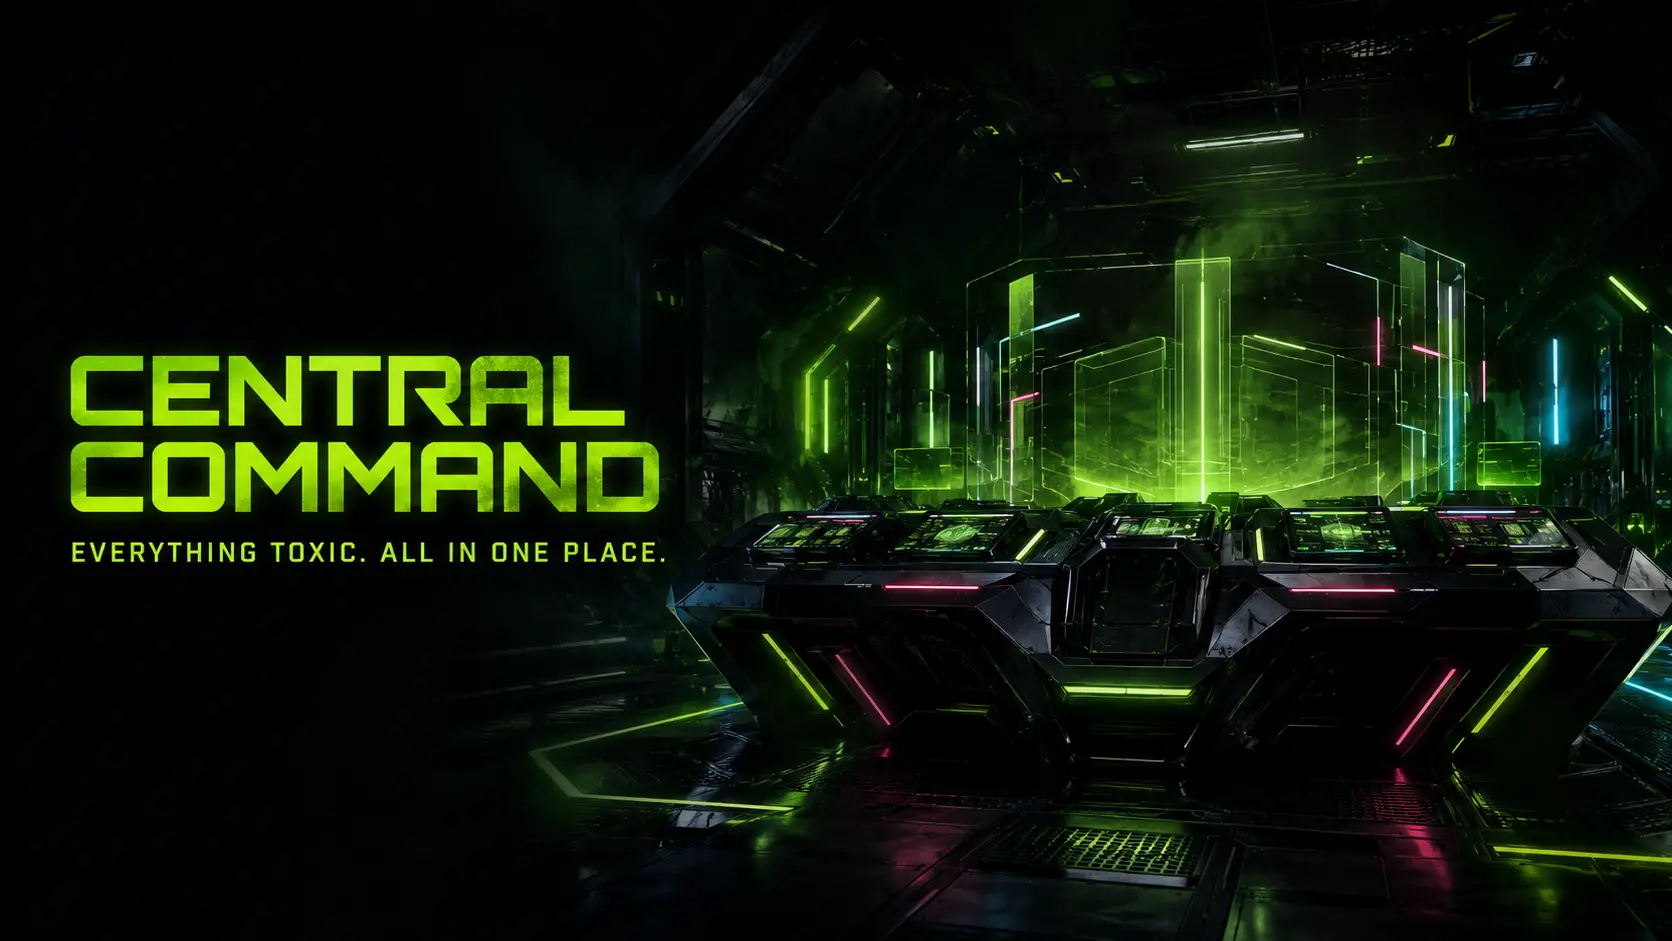
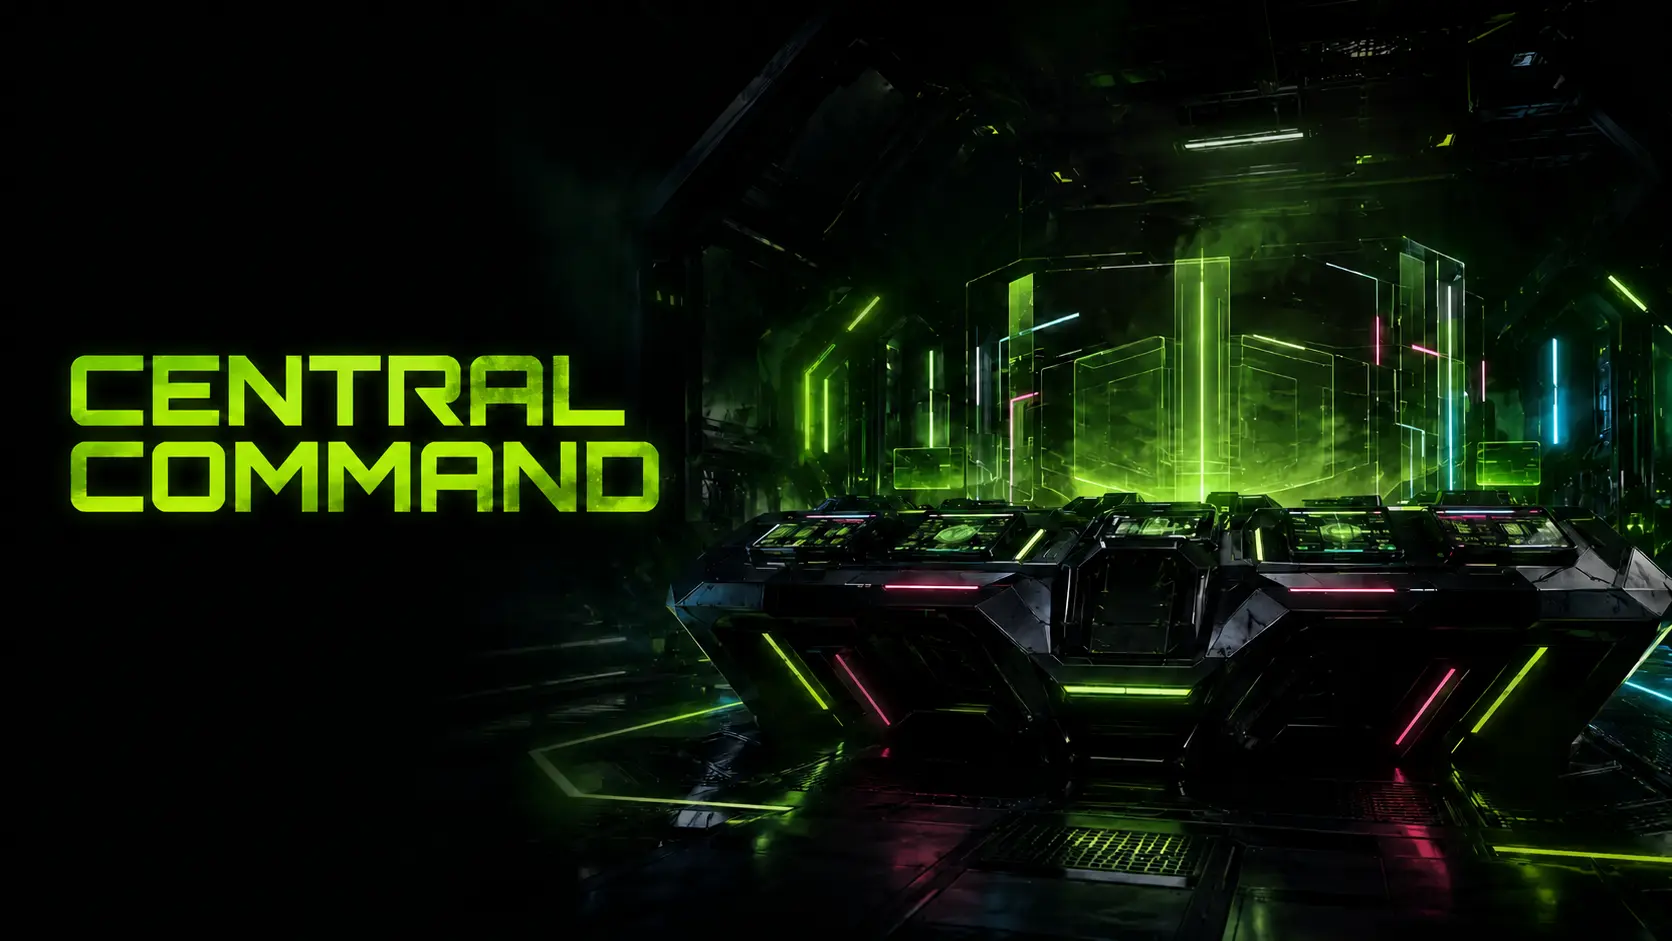
Central Command branding update

diff --git a/index.html b/index.html
@@ -4,17 +4,17 @@
   <meta charset="utf-8">
   <meta name="viewport" content="width=device-width, initial-scale=1">
   <meta name="theme-color" content="#070a08">
-  <meta name="description" content="ThyToxicGamer Central Command brings the Game Catalog, Poll Center, Command Center, Discord, stream links, and future community tools together in one place.">
-  <meta property="og:title" content="ThyToxicGamer Central Command">
-  <meta property="og:description" content="Everything Toxic. All in One Place.">
+  <meta name="description" content="⁅𝐓𝐡𝐲𝐓☣𝐱𝐢𝐜𝐆𝐚𝐦𝐞𝐫⁆ Central Command brings the Game Catalog, Poll Center, Command Center, Discord, stream links, and future community tools together in one place.">
+  <meta property="og:title" content="⁅𝐓𝐡𝐲𝐓☣𝐱𝐢𝐜𝐆𝐚𝐦𝐞𝐫⁆ Central Command">
+  <meta property="og:description" content="Everything 𝐓☣𝐱𝐢c. All in One Place.">
   <meta property="og:type" content="website">
   <meta property="og:url" content="https://thy-toxic-gamer.github.io/central-command/">
   <meta property="og:image" content="https://thy-toxic-gamer.github.io/central-command/assets/central-command-banner.webp">
   <meta name="twitter:card" content="summary_large_image">
-  <meta name="twitter:title" content="ThyToxicGamer Central Command">
-  <meta name="twitter:description" content="Everything Toxic. All in One Place.">
+  <meta name="twitter:title" content="⁅𝐓𝐡𝐲𝐓☣𝐱𝐢𝐜𝐆𝐚𝐦𝐞𝐫⁆ Central Command">
+  <meta name="twitter:description" content="Everything 𝐓☣𝐱𝐢c. All in One Place.">
   <meta name="twitter:image" content="https://thy-toxic-gamer.github.io/central-command/assets/central-command-banner.webp">
-  <title>ThyToxicGamer Central Command</title>
+  <title>⁅𝐓𝐡𝐲𝐓☣𝐱𝐢𝐜𝐆𝐚𝐦𝐞𝐫⁆ Central Command</title>
   <link rel="preconnect" href="https://fonts.googleapis.com">
   <link rel="preconnect" href="https://fonts.gstatic.com" crossorigin>
   <link href="https://fonts.googleapis.com/css2?family=Barlow+Condensed:ital,wght@0,500;0,600;0,700;0,800;0,900;1,700&amp;family=Inter:wght@400;500;600;700;800&amp;display=swap" rel="stylesheet">
@@ -26,10 +26,9 @@
 
   <div class="page-shell">
     <header class="site-header" aria-label="Central Command header">
-      <a class="brand" href="#top" aria-label="ThyToxicGamer Central Command home">
-        <span class="brand-mark" aria-hidden="true">T<span>☣</span>G</span>
+      <a class="brand" href="#top" aria-label="⁅𝐓𝐡𝐲𝐓☣𝐱𝐢𝐜𝐆𝐚𝐦𝐞𝐫⁆ Central Command home">
         <span class="brand-copy">
-          <strong>THYTOXICGAMER</strong>
+          <strong>⁅𝐓𝐡𝐲𝐓☣𝐱𝐢𝐜𝐆𝐚𝐦𝐞𝐫⁆</strong>
           <small>CENTRAL COMMAND</small>
         </span>
       </a>
@@ -47,9 +46,9 @@
         <div class="hero-overlay"></div>
         <div class="hero-content">
           <div class="eyebrow"><span class="pulse-dot"></span> System online <span>Ver. 1.0</span></div>
-          <p class="hero-kicker">THE TOXIC ONE PRESENTS</p>
+          <p class="hero-kicker">THE 𝐓☣𝐱𝐢c ONE PRESENTS</p>
           <h1 id="hero-title">CENTRAL<br><em>COMMAND</em></h1>
-          <p class="hero-summary">Your direct access point to the ThyToxicGamer Game Catalog, live polls, command references, community, and everything coming next.</p>
+          <p class="hero-summary">Your direct access point to the ⁅𝐓𝐡𝐲𝐓☣𝐱𝐢𝐜𝐆𝐚𝐦𝐞𝐫⁆ Game Catalog, live polls, command references, community, and everything coming next.</p>
           <div class="hero-actions">
             <a class="button button-primary" href="#destinations">Enter Central Command <span aria-hidden="true">↓</span></a>
             <a class="button button-secondary" href="https://www.twitch.tv/thytoxicgamer" target="_blank" rel="noopener noreferrer">Watch on Twitch <span aria-hidden="true">↗</span></a>
@@ -128,7 +127,7 @@
         <div class="community-panel">
           <div class="community-copy">
             <p class="section-number">02 / STAY CONNECTED</p>
-            <h2 id="community-title">Enter the Toxic community</h2>
+            <h2 id="community-title">Enter the 𝐓☣𝐱𝐢c community</h2>
             <p>Watch live, join the Discord, keep up with updates, or support the stream directly.</p>
           </div>
 
@@ -146,10 +145,9 @@
 
     <footer class="site-footer">
       <div class="footer-brand">
-        <span class="brand-mark small" aria-hidden="true">T<span>☣</span>G</span>
-        <div><strong>THYTOXICGAMER</strong><small>THE TOXIC ONE</small></div>
+        <div><strong>⁅𝐓𝐡𝐲𝐓☣𝐱𝐢𝐜𝐆𝐚𝐦𝐞𝐫⁆</strong><small>THE 𝐓☣𝐱𝐢c ONE</small></div>
       </div>
-      <p>Central Command <span>•</span> Everything Toxic. All in One Place.</p>
+      <p>Central Command <span>•</span> Everything 𝐓☣𝐱𝐢c. All in One Place.</p>
       <button class="back-to-top" type="button" aria-label="Back to top">↑</button>
     </footer>
   </div>

diff --git a/styles.css b/styles.css
@@ -48,9 +48,6 @@ button { font: inherit; }
   border-bottom: 1px solid rgba(255,255,255,.08);
 }
 .brand { display: inline-flex; align-items: center; gap: 12px; text-decoration: none; }
-.brand-mark { display: inline-grid; place-items: center; min-width: 54px; height: 38px; border: 1px solid var(--line-strong); color: #fff; background: rgba(159, 236, 0, .07); font-family: var(--display); font-size: 23px; font-weight: 900; letter-spacing: -.08em; transform: skew(-7deg); }
-.brand-mark span { color: var(--toxic); }
-.brand-mark.small { min-width: 42px; height: 32px; font-size: 18px; }
 .brand-copy { display: grid; line-height: 1; }
 .brand-copy strong, .footer-brand strong { font-family: var(--display); font-size: 18px; font-style: italic; letter-spacing: .06em; }
 .brand-copy small, .footer-brand small { margin-top: 5px; color: var(--toxic); font: 700 9px/1 var(--body); letter-spacing: .2em; }
@@ -154,7 +151,8 @@ a.destination-card:hover, a.destination-card:focus-visible { transform: translat
 
 @media (max-width: 560px) {
   .page-shell { width: min(100% - 18px, var(--max-width)); }
-  .brand-copy { display: none; }
+  .brand-copy strong { font-size: 13px; letter-spacing: .015em; }
+  .brand-copy small { display: none; }
   .header-nav { margin-left: auto; }
   .header-nav .nav-discord { padding: 9px 11px; font-size: 10px; }
   .hero { min-height: 570px; margin-top: 9px; }

diff --git a/README.md b/README.md
@@ -1,6 +1,6 @@
-# ThyToxicGamer Central Command
+# ⁅𝐓𝐡𝐲𝐓☣𝐱𝐢𝐜𝐆𝐚𝐦𝐞𝐫⁆ Central Command
 
-The central hub for ThyToxicGamer—bringing the Game Catalog, Poll Center, Command Center, Appeals, Discord, stream tools, and community links together in one place.
+The central hub for ⁅𝐓𝐡𝐲𝐓☣𝐱𝐢𝐜𝐆𝐚𝐦𝐞𝐫⁆—bringing the Game Catalog, Poll Center, Command Center, Appeals, Discord, stream tools, and community links together in one place.
 
 ## Current version
 
